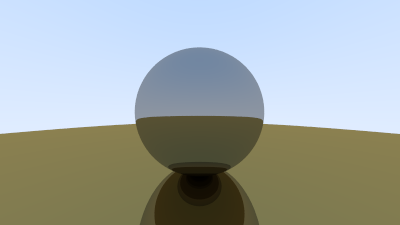
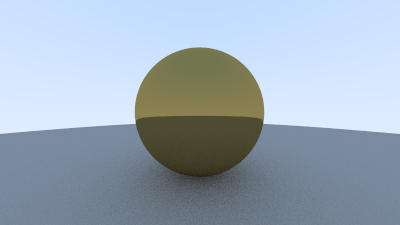
add functions to process material types

diff --git a/src/world.rs b/src/world.rs
@@ -1,38 +1,29 @@
-use crate::ray::{Ray, dot, normalize, negate_vector, reflect};
+use crate::ray::{Ray, dot, normalize, negate_vector, reflect, random_unit_sphere_vector, sum};
 
 pub trait Hittable {
     fn hit(&self, ray: &Ray, min: f64, max: f64,) -> Option<HitRecord>;
 }
 
+#[derive(Clone, Copy)]
 pub enum Material {
-// incident ray, normal, point of contact, color attenuation vector
-    // Metal(Ray, Vec<f64>, Vec<f64>, Vec<f64>),
     Metal,
     Lambertian,
 }
 
-pub fn albedo(material: Material) -> Vec<f64> {
-    match material {
-        Material::Metal => todo!(),
-        Material::Lambertian => todo!(),
-    }
-}
-
 pub fn scatter(hit_record: &HitRecord, incident_ray: &Ray) -> Option<Ray> {
-    match &hit_record.material {
+    match hit_record.material {
         Material::Metal => {
+            // must add randomness to direction of reflected ray
             let reflected: Vec<f64> = reflect(&incident_ray.direction, &hit_record.normal);
             let scattered = Ray::new(hit_record.point_of_contact.clone(), reflected);
-            let attenuation = albedo;
             if dot(&scattered.direction, &hit_record.normal) > 0.0 {
-                // return scattered ray and accumulate attenuation vector 
                 Some(scattered)
             } else {
                 None
             }
         },
         Material::Lambertian => {
-            todo!()
+            Some(Ray::new(hit_record.point_of_contact.clone(), sum(&hit_record.normal, &random_unit_sphere_vector())))
         },
     }
 }
@@ -50,6 +41,7 @@ pub struct Sphere {
     pub center: Vec<f64>,
     pub radius: f64,
     pub albedo: Vec<f64>,
+    pub material: Material
 }
 
 impl Sphere {
@@ -83,7 +75,7 @@ impl Hittable for Sphere{
                     Some(HitRecord{
                         point_of_contact: p,
                         normal: n_unit,
-                        material: Material::Metal,
+                        material: self.material,
                         albedo: self.albedo.clone(),
                         t: r,
                         front_face: true,
@@ -92,7 +84,7 @@ impl Hittable for Sphere{
                     Some(HitRecord{
                         point_of_contact: p,
                         normal: negate_vector(&n_unit),
-                        material: Material::Metal,
+                        material: self.material,
                         albedo: self.albedo.clone(),
                         t: r,
                         front_face: false,

diff --git a/src/ray.rs b/src/ray.rs
@@ -1,6 +1,6 @@
 use rand::Rng;
 use crate::camera::{Camera};
-use crate::world::{Sphere, HitRecord, Hittable, Material, scatter};
+use crate::world::{Sphere, HitRecord, Hittable, scatter};
 
 pub fn color_scale_recursive(light_ray: &Ray, world: &Vec<Sphere>, depth: u32, shadow_scale: f64, attenuator: Vec<f64>) -> Vec<f64> {
     if depth <= 0 {
@@ -32,8 +32,6 @@ pub fn color_scale_recursive(light_ray: &Ray, world: &Vec<Sphere>, depth: u32, s
     let ray_collision: Option<HitRecord> = world.iter().fold(None, object_hit_processor);
     match ray_collision {
         Some(rec) => {
-            // if a valid scattered ray (dot product w normal ray is positive), then return ray attenuation vec * recursive call to color_scale
-            // otherwise, return vec![0.0,0.0,0.0] (RGB = 000)
             let scattered_ray: Option<Ray> = scatter(&rec, light_ray);
             // move the match into a function that also makes call to scatter function
             match scattered_ray {
@@ -46,8 +44,6 @@ pub fn color_scale_recursive(light_ray: &Ray, world: &Vec<Sphere>, depth: u32, s
                     vec![0.0,0.0,0.0]
                 },
             }
-            // let reflected_ray = Ray::new(rec.point_of_contact, sum(&rec.normal, &random_unit_sphere_vector()));
-            // color_scale_recursive(&scattered_ray, world, depth-1,shadow_scale*0.5)
         },
         None => {
             let t = 0.5*(&light_ray.direction[1]  + 1.0);

diff --git a/src/main.rs b/src/main.rs
@@ -27,12 +27,14 @@ fn main() {
     let sphere = Sphere {
         center: vec![0.0,0.0,-1.0],
         radius: 0.5,
-        albedo: vec![0.8, 0.8, 0.8],
+        albedo: vec![0.8, 0.6, 0.2],
+        material: world::Material::Metal,
     };
     let bg_sphere = Sphere {
         center: vec![0.0, -100.5,-1.0],
         radius: 100.0,
-        albedo: vec![0.8, 0.6, 0.2],
+        albedo: vec![0.8, 0.8, 0.8],
+        material: world::Material::Lambertian,
     };
 
     let world: Vec<Sphere> = vec![sphere, bg_sphere];
